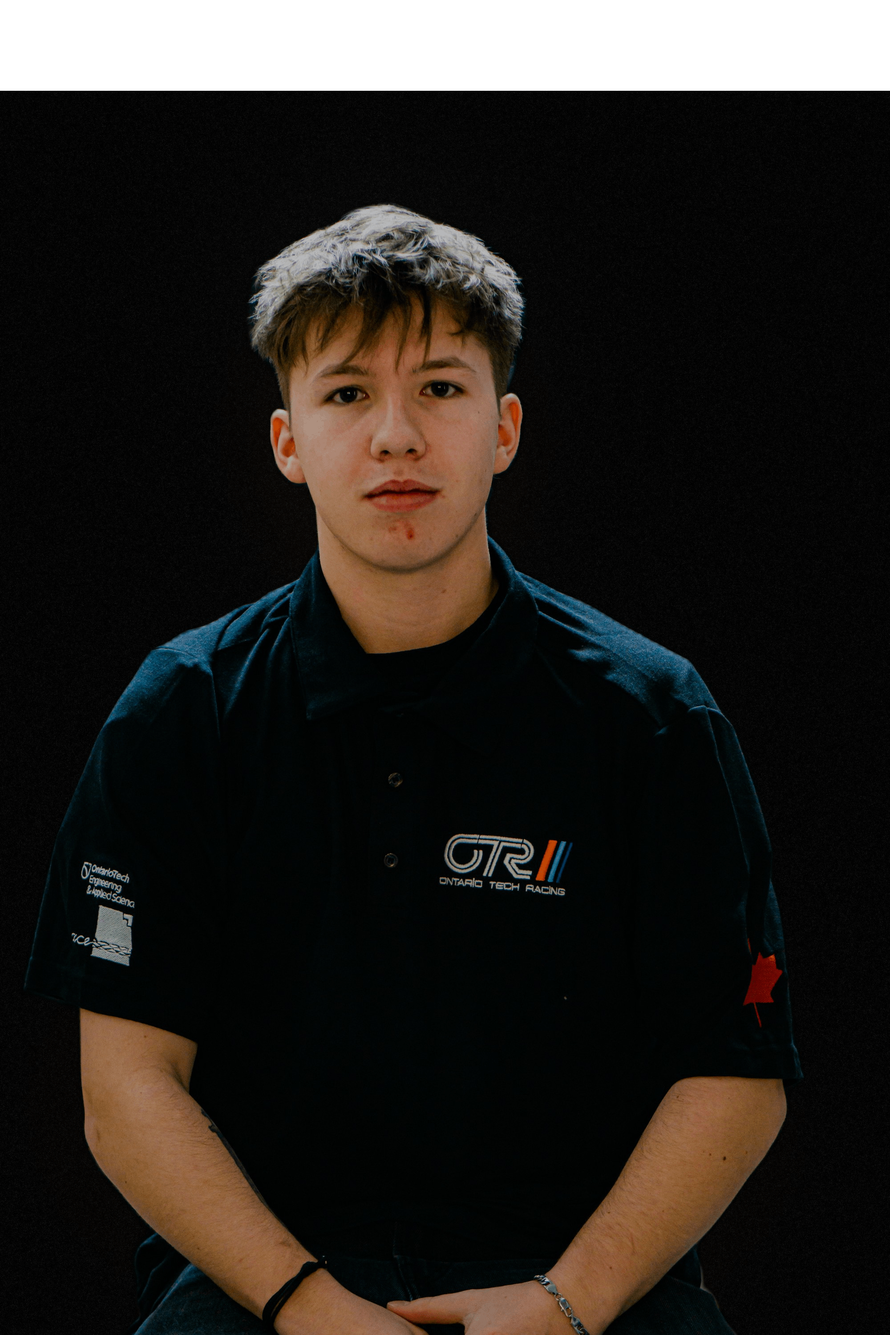
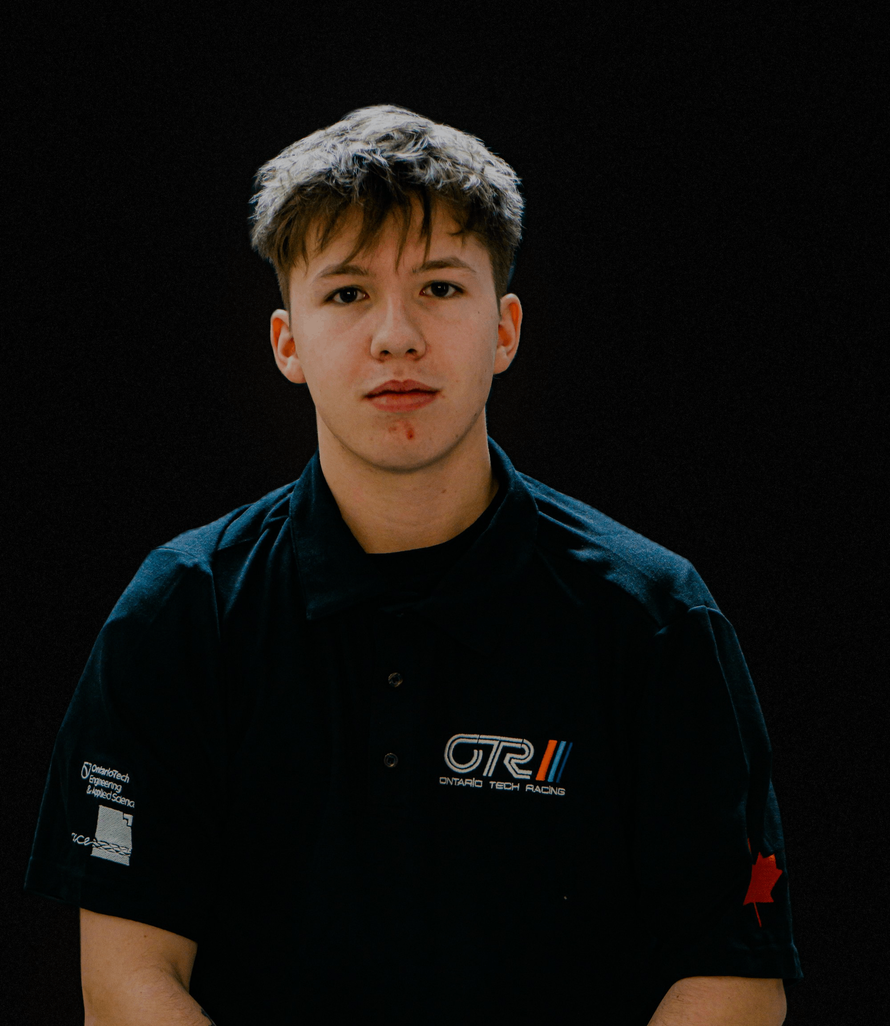
fix: cropped headshots

Changed region(s): [[0.0, 0.0, 1.0, 1.0], [0.496, 0.7178, 0.651, 0.7802], [0.496, 0.6242, 0.651, 0.6866]]

diff --git a/src/public/js/team-page.js b/src/public/js/team-page.js
@@ -9,7 +9,7 @@ const teams = {
     {
       name: "Mann Shah",
       role: "Logistics Lead",
-      img: "../images/TeamMembers/Mann Shah.jpg",
+      img: "../images/TeamMembers/Mann Shah.png",
       linkedin: "https://www.linkedin.com/company/ontariotechracing",
     },
     {
